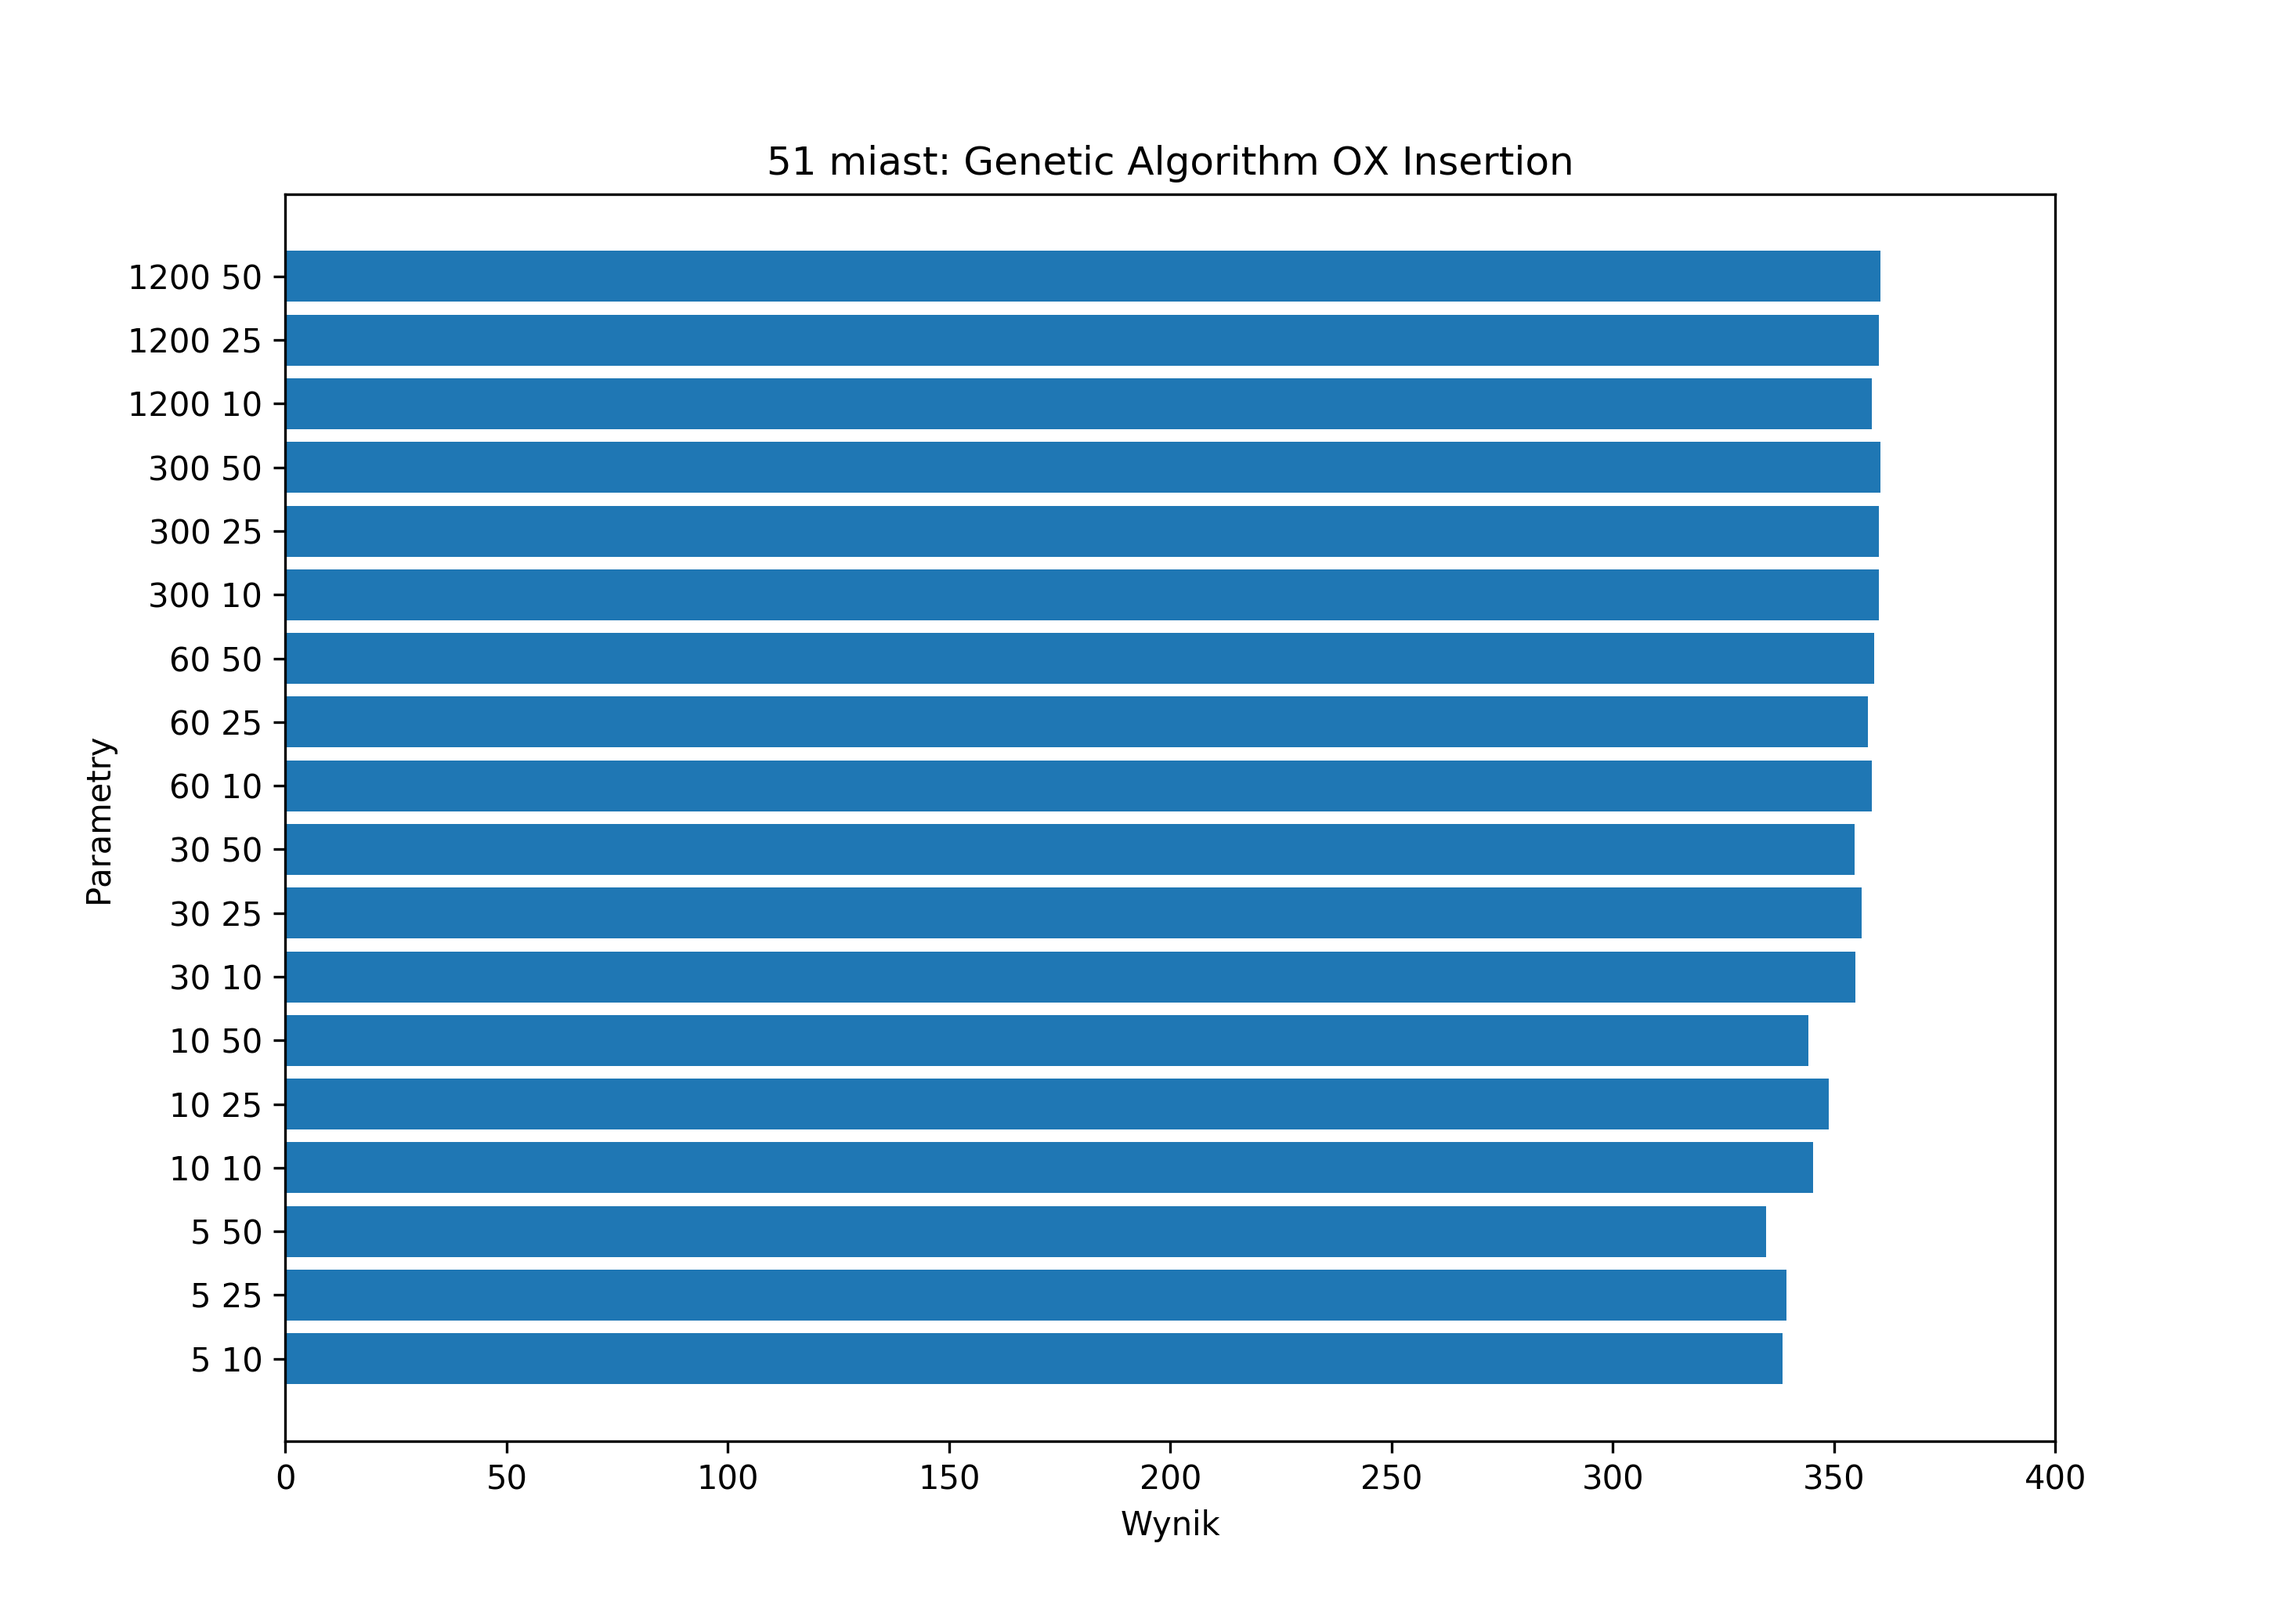
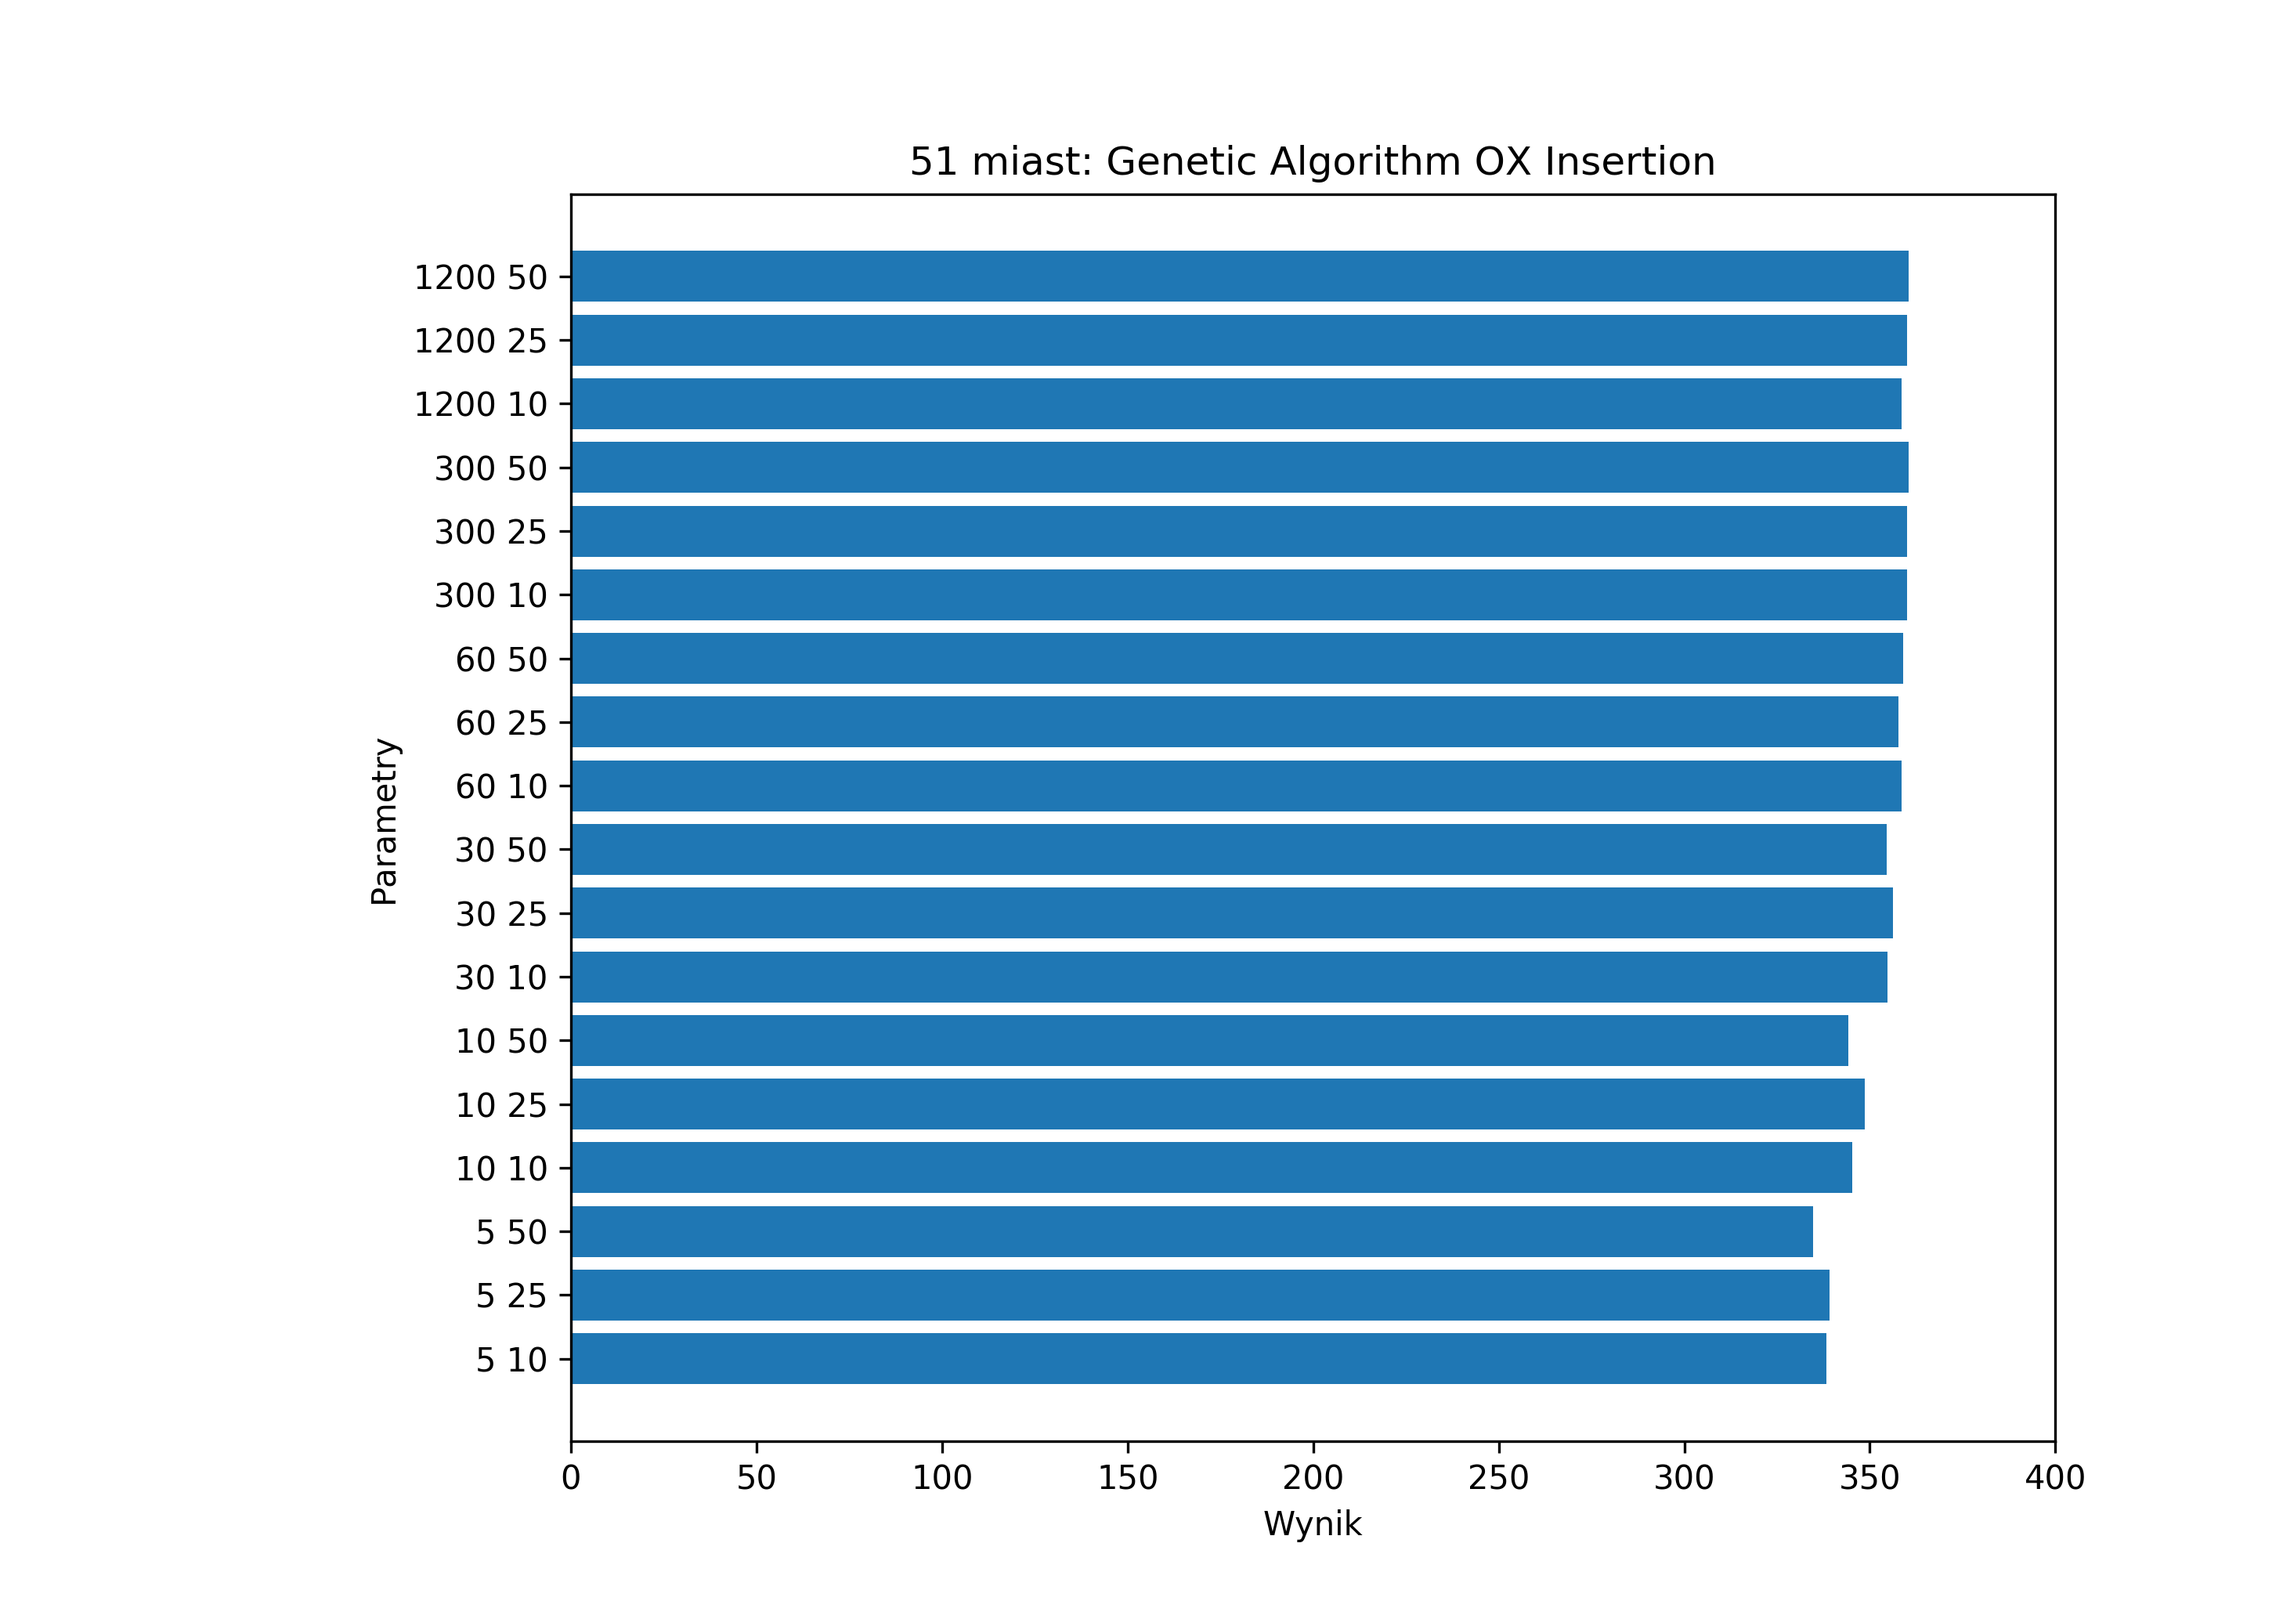
Fixing results

diff --git a/results/summary.py b/results/summary.py
@@ -1,0 +1,113 @@
+import csv
+import numpy as np
+import matplotlib.pyplot as plt
+import sys
+
+
+def import_data(location):
+    data = {}
+
+    file = open(location)
+    reader = csv.reader(file, delimiter=',')
+    for row in reader:
+        algorithm = row[0].strip()
+        category = ' '.join([cell.strip() if cell.strip() != '-' else '' for cell in row[1:-2]])
+        value = float(row[-2].strip())
+        time = float(row[-1].strip())
+
+        if not algorithm in data:
+            data[algorithm] = []
+
+        data[algorithm].append((category, value, time))
+
+    return data
+
+
+def get_summary_data():
+    all_the_data = {}
+    all_the_data[25] = {}
+    all_the_data[51] = {}
+
+    summary_data = {}
+    summary_data[25] = {}
+    summary_data[51] = {}
+
+    for no_of_cities in [25, 51]:
+        data = import_data(f'results/{no_of_cities}.csv')
+
+        for algorithm in data:
+            if algorithm == 'Simulated Annealing':
+                continue
+
+            fixed_algorithm_name = ' '.join(algorithm.split(' ')[0:2])
+
+            for row in data[algorithm]:
+                time = int(row[0].split(' ')[0])
+
+                if time not in all_the_data[no_of_cities]:
+                    all_the_data[no_of_cities][time] = {}
+                    summary_data[no_of_cities][time] = {}
+
+                if fixed_algorithm_name not in all_the_data[no_of_cities][time]:
+                    all_the_data[no_of_cities][time][fixed_algorithm_name] = []
+                    summary_data[no_of_cities][time][fixed_algorithm_name] = {}
+
+                all_the_data[no_of_cities][time][fixed_algorithm_name].append(row)
+
+            for time in summary_data[no_of_cities]:
+                summary_data[no_of_cities][time][fixed_algorithm_name]['worst'] = 1000
+                summary_data[no_of_cities][time][fixed_algorithm_name]['best'] = 0
+
+                for row in all_the_data[no_of_cities][time][fixed_algorithm_name]:
+                    if row[1] < summary_data[no_of_cities][time][fixed_algorithm_name]['worst']:
+                        summary_data[no_of_cities][time][fixed_algorithm_name]['worst'] = row[1]
+
+                    if row[1] > summary_data[no_of_cities][time][fixed_algorithm_name]['best']:
+                        summary_data[no_of_cities][time][fixed_algorithm_name]['best'] = row[1]
+
+    return summary_data
+
+
+def generate_chart(title, filename, rows):
+    labels = []
+    for time in rows:
+        for algorithm in rows[time]:
+            labels.insert(0, f'{time} {algorithm}')
+
+    results_worst = []
+    for time in rows:
+        for algorithm in rows[time]:
+            results_worst.insert(0, rows[time][algorithm]['worst'])
+
+    results_best = []
+    for time in rows:
+        for algorithm in rows[time]:
+            results_best.insert(0, rows[time][algorithm]['best'])
+
+    index = np.arange(len(labels))
+
+    width = 11.69-1.97
+    height = (16.53-1.97)-0.39 if len(rows) > 20 else ((16.53-1.97)/2)-0.39
+
+    plt.figure(figsize=(width, height), dpi=300)
+    plt.barh(index, results_best, color='#2AA5F7')
+    plt.barh(index, results_worst, color='#1E78B4')
+    plt.xlabel('Wynik')
+    plt.ylabel('Parametry')
+    plt.yticks(index, labels)
+    plt.xlim(0, 400)
+    plt.title(title)
+    plt.subplots_adjust(left=0.25)
+
+    plt.savefig(filename)
+
+
+if __name__ == '__main__':
+    data = get_summary_data()
+
+    for no_of_cities in data:
+        generate_chart(
+            f'Podsumowanie: {no_of_cities} miast',
+            f'results/charts/Summary {no_of_cities}.png',
+            data[no_of_cities]
+        )

diff --git a/results/results.py b/results/results.py
@@ -37,6 +37,26 @@ def generate_chart(title, filename, rows):
     plt.yticks(index, labels)
     plt.xlim(0, 400)
     plt.title(title)
+    plt.subplots_adjust(left=0.25)
+
+    plt.savefig(filename)
+
+
+def generate_time_chart(title, filename, rows):
+    labels = [row[0] for row in rows]
+    results = [row[2] for row in rows]
+    index = np.arange(len(labels))
+
+    width = 11.69-1.97
+    height = (16.53-1.97)-0.39 if len(rows) > 20 else ((16.53-1.97)/2)-0.39
+
+    plt.figure(figsize=(width, height), dpi=300)
+    plt.barh(index, results)
+    plt.xlabel('Czas pracy (w sekundach)')
+    plt.ylabel('Parametry')
+    plt.yticks(index, labels)
+    plt.title(title)
+    plt.subplots_adjust(left=0.25)
 
     plt.savefig(filename)
 
@@ -50,3 +70,10 @@ if __name__ == '__main__':
                 f'results/charts/{chart_name} {no_of_cities}.png',
                 data[chart_name]
             )
+
+            if chart_name == 'Simulated Annealing':
+                generate_time_chart(
+                    f'{no_of_cities} miast: {chart_name}',
+                    f'results/charts/{chart_name} {no_of_cities} Time.png',
+                    data[chart_name]
+                )
